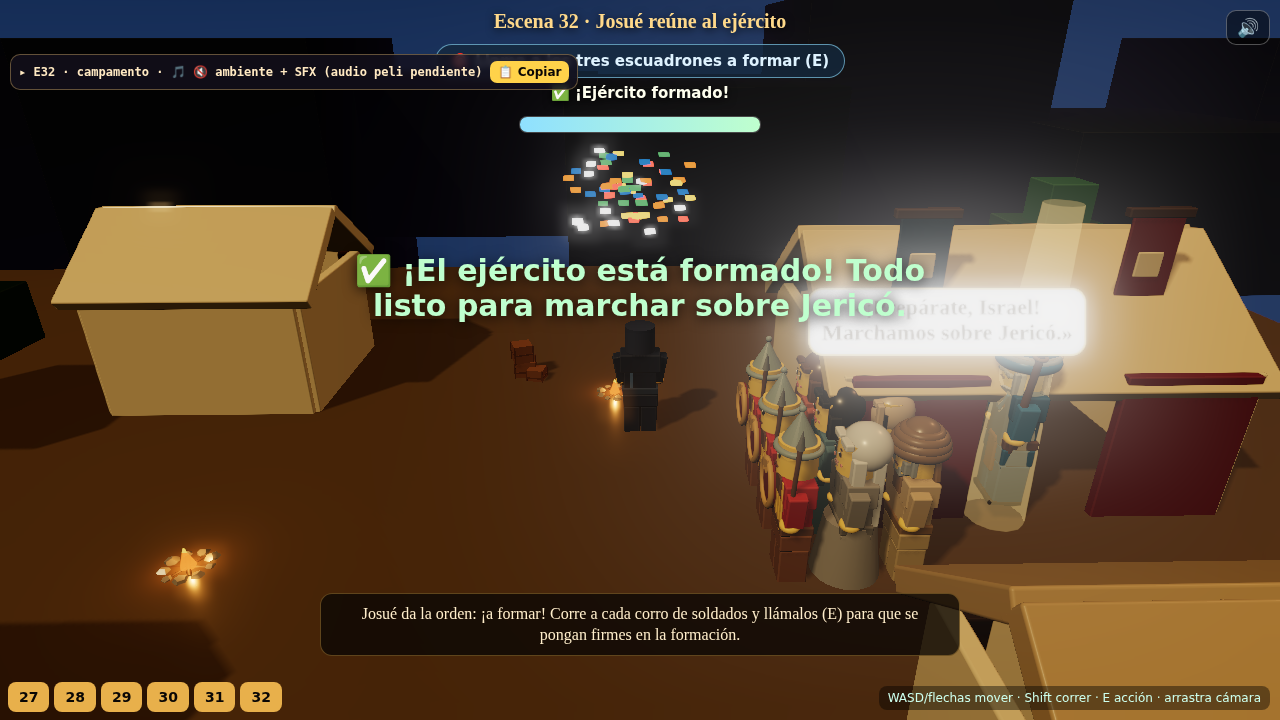
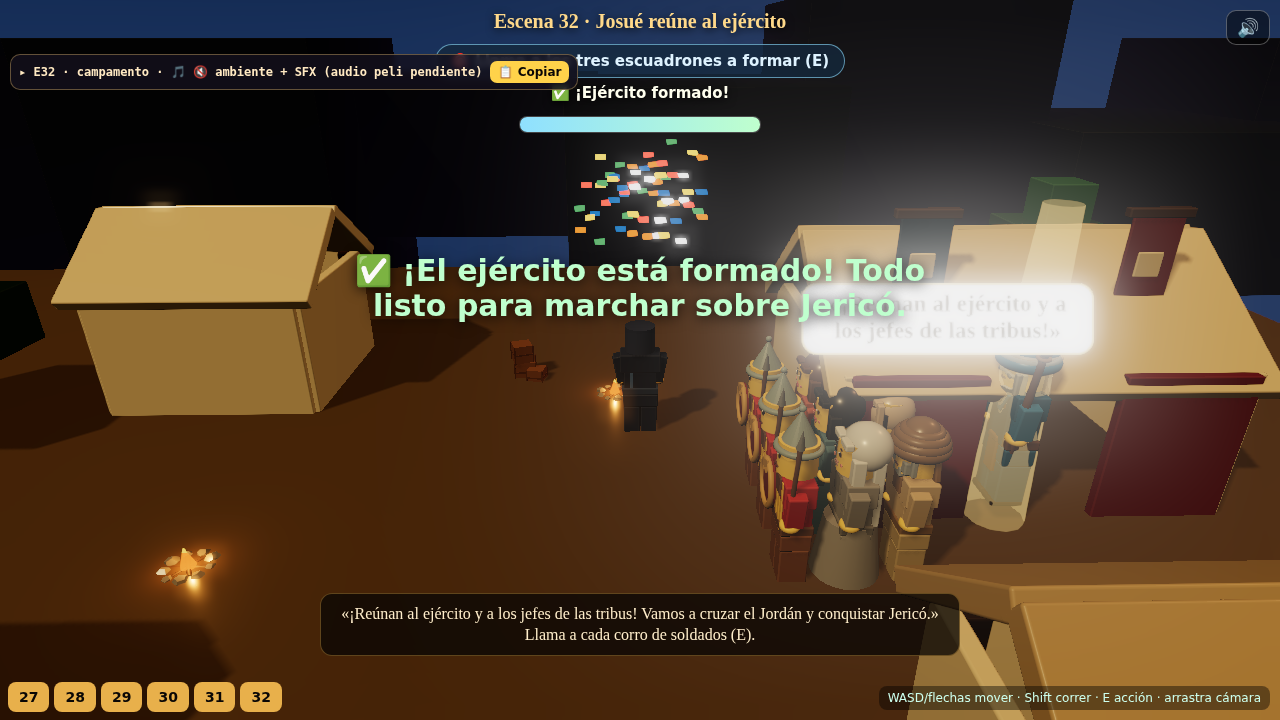
15-20 ciclo 3: pase de fidelidad con las referencias de la peli
- Diálogos/subtitulos REALES (transcripcion.md): parte de los espias (esc31,
  10:42-11:13), orden de Josue "Reunan al ejercito y a los jefes de las tribus"
  (esc32, 11:27-11:37), huida "en silencio hasta la colina" (esc29, 9:54).
- esc30: palmeras de tronco curvo + silueta fortificada de Jerico al fondo
  (biblia escenario orilla_jordan). Solo referencia, nunca fondo plano 2.5D.
- BEAT_LOCAL a segundos globales reales del video + nota de reordenado de beats.
- Personajes verificados con peli.json (Yehoshua, Cohen con shofar beige).
- Referencias privadas: NO se commitean (solo consulta). QA esc29-32 OK, 0 errores.

Claude-Session: https://claude.ai/code/session_013fFFkfCW6KbozAWv3bUY7r

diff --git a/mundo-ladrillos/src/scenes/min15/registry.ts b/mundo-ladrillos/src/scenes/min15/registry.ts
@@ -15,14 +15,16 @@ import { escena32 } from './escena32_ejercito';
  * jugables separados, uno por latido bíblico. Eso DESPLAZA la numeración jugable
  * respecto a la de la peli a partir del reporte (el usuario lo aprobó así):
  *
- *   27  el CORDÓN ROJO en la ventana (señal de salvación)   ✅ HITO 1
- *   28  DESCUELGUE por la muralla con cuerdas                ✅ HITO 1
- *   29  ESCONDERSE en el monte 3 días (patrulla)            🎮 HITO 2 (huida 1/3)
- *   30  CRUCE de vuelta del Jordán (de piedra en piedra)    🎮 HITO 2 (huida 2/3)
- *   31  el PARTE a Josué en el campamento (diálogo)         🎮 HITO 2 (huida 3/3)
- *   32  (peli 31) Josué manda reunir al ejército            🎮 (reunir/formar)
- *   33  (peli 32) montaje de PREPARATIVOS de guerra         — pendiente
- *   34  (peli 33) los SHOFAROT del Cohén (gag del carnero)  — pendiente (taller)
+ * Timestamps REALES del vídeo (referencias/transcripcion.md; el JUEGO reordena los
+ * beats respecto a la peli, por eso el min-tramo del juego ≠ min de la peli):
+ *   27  el CORDÓN ROJO en la ventana (señal)     ✅ HITO 1   · peli 9:38–10:01
+ *   28  DESCUELGUE por la muralla con cuerdas     ✅ HITO 1   · peli 9:54
+ *   29  ESCONDERSE en el monte 3 días (patrulla) 🎮 huida 1/3 · peli 9:54 "en silencio hasta la colina"
+ *   30  CRUCE de vuelta del Jordán (piedras)      🎮 huida 2/3 · peli ~10:01
+ *   31  el PARTE a Josué (diálogo)                🎮 huida 3/3 · peli 10:42–11:13
+ *   32  Josué manda reunir al ejército            🎮 reunir    · peli 11:27–11:37
+ *   33  montaje de PREPARATIVOS de guerra         — pendiente  · peli ~14:32
+ *   34  los SHOFAROT del Cohén (gag del carnero)  — pendiente  · peli 12:16–12:39 (taller)
  *
  * HITO 2 (huida): esconderse → cruzar → parte a Josué (esc 29–31). A partir de ahí,
  * los preparativos: esc32 reunir al ejército (hecho), y quedan esc33/34. El LEAD las
@@ -40,11 +42,12 @@ export function sceneByNumero(n: number): Min15Scene | undefined {
 }
 
 /**
- * Segundo LOCAL (dentro del clip `narracion_min15-20`, que empezaría en 0) en que
- * arranca cada escena, según el minutaje oficial (global − 900s). Al entrar en una
- * escena, el audio real de la peli saltaría a este segundo. MISMO patrón que
- * min05/min10, y APAGADO hasta que llegue el audio privado del usuario.
+ * Segundo GLOBAL del vídeo (referencias/transcripcion.md) en que arranca cada beat.
+ * Al cablear el audio real, saltar a este segundo. El audio sigue APAGADO hasta que
+ * el usuario lo pase; lo cablea el LEAD. OJO: el JUEGO reordena los beats respecto a
+ * la peli (la huida/parte/shofarot ocurren en el vídeo hacia 9:54–12:39, no en 15+),
+ * por eso los segundos no crecen de forma trivial con el nº de escena del juego.
  */
 export const BEAT_LOCAL: Record<number, number> = {
-  26: 11, 27: 40, 28: 51, 29: 120, 30: 128, 31: 137, 32: 227, 33: 242, 34: 314
+  27: 578, 28: 594, 29: 595, 30: 601, 31: 642, 32: 687, 33: 872, 34: 736
 };

diff --git a/mundo-ladrillos/src/scenes/min15/escena31_reporte.ts b/mundo-ladrillos/src/scenes/min15/escena31_reporte.ts
@@ -20,11 +20,12 @@ import { BrickPalette } from '../../materials/BrickPalette';
  * la buena nueva. Diálogo con el helper LOCAL `makeBubble` (stopgap del tramo
  * 10–15) hasta que el LEAD publique el `ctx.say` compartido; entonces se cambia.
  */
+// Diálogo REAL de la peli (transcripción 10:42–11:13; el juego reordena beats).
 type Line = { who: 'espia' | 'yehoshua'; text: string };
 const DIALOGO: Line[] = [
-  { who: 'espia', text: '«¡Josué! El Señor ha entregado toda la tierra en nuestras manos.»' },
-  { who: 'espia', text: '«Toda la gente de Jericó tiembla de miedo ante nosotros.»' },
-  { who: 'yehoshua', text: '«¡Bendito sea el Señor! Mañana cruzaremos el Jordán.»' }
+  { who: 'espia', text: '«Ya estamos aquí. Sentimos la mano de Hashem con nosotros y él nos libró de todos nuestros enemigos.»' },
+  { who: 'espia', text: '«Todos están muertos de miedo. Rahab nos contó los secretos de nuestros enemigos: esa información vale oro.»' },
+  { who: 'yehoshua', text: '«Si han hecho una promesa, esa promesa se respetará. Den esa información a los comandantes de las tropas.»' }
 ];
 
 export const escena31: Min15Scene = {
@@ -32,13 +33,13 @@ export const escena31: Min15Scene = {
   numero: 31,
   mundo: 'campamento',
   titulo: 'El parte a Josué',
-  subtitulo: 'Preséntate ante Josué en la tienda militar y dale el parte (E): la ciudad es nuestra.',
+  subtitulo: 'Ya estamos aquí: sentimos la mano de Hashem con nosotros. Preséntate ante Josué y dale el parte (E).',
   jugador: 'spy',
   noche: true,
   ambiente: 'night',
   spawn: { x: -14, z: 3 },
   objetivo: { tipo: 'ir_a', texto: 'Ve ante Josué y dale el parte (E)', target: { x: 10, z: 0 }, radio: 2.8 },
-  exito: '¡Parte entregado! «El Señor ha entregado la ciudad en nuestras manos.»',
+  exito: '¡Parte entregado! Esa promesa a Rahab se respetará y la información vale oro.',
   camara: { yaw: 0, pitch: 0.3, dist: 20 },
   intro: {
     from: { x: -22, y: 9, z: 22 }, to: { x: -13, y: 6, z: 15 },

diff --git a/mundo-ladrillos/src/scenes/min15/escena30_cruce.ts b/mundo-ladrillos/src/scenes/min15/escena30_cruce.ts
@@ -2,7 +2,8 @@ import * as THREE from 'three';
 import { Min15Scene, SceneContext, SceneInstance } from './types';
 import { GuideBeacon } from './props/guide';
 import { buildGround, buildPine, buildBush, buildMoonNight, buildPineRidge } from './props/wild';
-import { buildRiver, buildFish, buildReeds, buildRock, buildTent } from '../min05/props/BrickProps';
+import { buildRiver, buildFish, buildReeds, buildRock, buildTent, buildDistantJericho } from '../min05/props/BrickProps';
+import { buildPalm } from '../../world/Clutter';
 import { createMinifigure, Minifigure } from '../../characters/MinifigureFactory';
 import { ESPIA1_SIGILO, ESPIA2_SIGILO } from '../min05/skins';
 import { BrickPalette } from '../../materials/BrickPalette';
@@ -44,6 +45,13 @@ export const escena30: Min15Scene = {
     group.add(buildGround(P, 0x2c5a30));
     group.add(buildMoonNight(P));
     group.add(buildPineRidge(P, -24, 10));
+    // Silueta fortificada de JERICÓ al fondo (biblia escenario `orilla_jordan`): de
+    // ahí vienen los espías (orilla oeste). Solo silueta lejana, no fondo plano 2.5D.
+    const jer = buildDistantJericho(P, 80); jer.position.set(-8, 0, -34); group.add(jer);
+    // PALMERAS de tronco curvo en las orillas (biblia: palmeras a los lados del cauce)
+    for (const [x, z, h] of [[-11, -9, 5.5], [-11.5, 10, 5], [10.5, -8, 5.2], [11, 12, 4.8]] as Array<[number, number, number]>) {
+      group.add(buildPalm(P, { x, z, height: h })); ctx.addObstacle(x, z, 0.6, 0.6);
+    }
 
     // --- EL RÍO: franja vertical (corre en Z) que se cruza de oeste a este ---
     const river = buildRiver(P, 15, 48, 0, 3);

diff --git a/mundo-ladrillos/src/scenes/min15/escena32_ejercito.ts b/mundo-ladrillos/src/scenes/min15/escena32_ejercito.ts
@@ -43,7 +43,7 @@ export const escena32: Min15Scene = {
   numero: 32,
   mundo: 'campamento',
   titulo: 'Josué reúne al ejército',
-  subtitulo: 'Josué da la orden: ¡a formar! Corre a cada corro de soldados y llámalos (E) para que se pongan firmes en la formación.',
+  subtitulo: '«¡Reúnan al ejército y a los jefes de las tribus! Vamos a cruzar el Jordán y conquistar Jericó.» Llama a cada corro de soldados (E).',
   jugador: 'spy',
   noche: true,
   ambiente: 'night',
@@ -88,7 +88,7 @@ export const escena32: Min15Scene = {
     const pillar = new THREE.Mesh(new THREE.CylinderGeometry(0.5, 0.9, 10, 12, 1, true),
       new THREE.MeshBasicMaterial({ color: 0xffd98a, transparent: true, opacity: 0.16, side: THREE.DoubleSide, depthWrite: false }));
     pillar.position.set(16, 5, 0); group.add(pillar);
-    const orderBubble = makeBubble('«¡Prepárate, Israel! Marchamos sobre Jericó.»', { w: 8 });
+    const orderBubble = makeBubble('«¡Reúnan al ejército y a los jefes de las tribus!»', { w: 8.4 });
     orderBubble.position.set(13.5, 6.6, 0); group.add(orderBubble);
 
     // --- Los 3 ESCUADRONES dispersos ---

diff --git a/mundo-ladrillos/src/scenes/min15/escena29_monte.ts b/mundo-ladrillos/src/scenes/min15/escena29_monte.ts
@@ -28,7 +28,7 @@ export const escena29: Min15Scene = {
   numero: 29,
   mundo: 'monte',
   titulo: 'Escondidos en el monte',
-  subtitulo: 'Sube al monte y escóndete en la cueva (E). Espera tres noches, quietecito, hasta que los perseguidores se marchen.',
+  subtitulo: 'Sigue el sendero en silencio hasta pasar la colina y escóndete en la cueva (E). Espera tres noches, hasta que los perseguidores se marchen.',
   jugador: 'spy',
   noche: true,
   ambiente: 'night',

diff --git a/mundo-ladrillos/coordinacion/min15-20.md b/mundo-ladrillos/coordinacion/min15-20.md
@@ -221,6 +221,16 @@ solo sumo las fogatas cálidas justas. Bounds por escena (el niño no rodea el e
 gag del carnero). Y engancho `ctx.say` en cuanto el LEAD lo publique (ahora uso el bocadillo
 local de stopgap). **Cerebro:** si ves otra prioridad o algún ajuste, déjamelo en "▶ PARA 15-20".
 
+### Ciclo 3 · 07:43 CEST (27-jul) — pase de FIDELIDAD con las referencias ✅
+Cogidas las `referencias/` (peli.json + transcripcion.md + frames) — **privadas, NO las
+commiteo** (solo consulta). Aplicado a MI carpeta: (1) **diálogos/subtítulos REALES** de la
+peli en esc29/31/32 (parte de los espías 10:42–11:13, orden de Josué «¡Reúnan al ejército y a
+los jefes de las tribus!» 11:27–11:37, huida «en silencio hasta la colina» 9:54); (2) **río
+esc30 con PALMERAS de tronco curvo + silueta fortificada de JERICÓ al fondo** (biblia escenario
+`orilla_jordan`); (3) **BEAT_LOCAL a segundos GLOBALES reales** del vídeo + nota de que el juego
+reordena beats. Personajes verificados con la biblia (Yehoshua túnica azul real/barba blanca;
+Cohen con shofar de cuerno beige → me sirve para esc34). QA: **esc29–32 ✅, 0 errores.**
+
 ### Ciclo 2 (loop 20m) — esc32 «Josué reúne al ejército» ✅
 Mini-juego NUEVO de **reunir/formar**: el niño (mensajero) corre por el campamento a cada uno
 de los **3 corros de soldados** y pulsa E para darles la orden; el escuadrón **marcha y se pone
